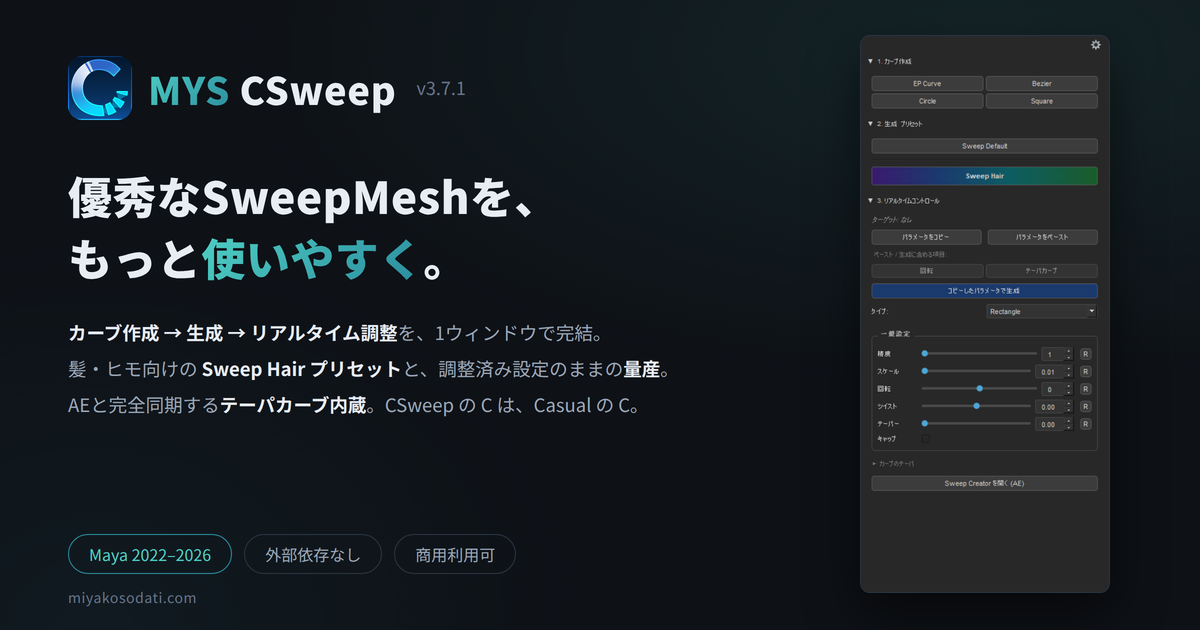
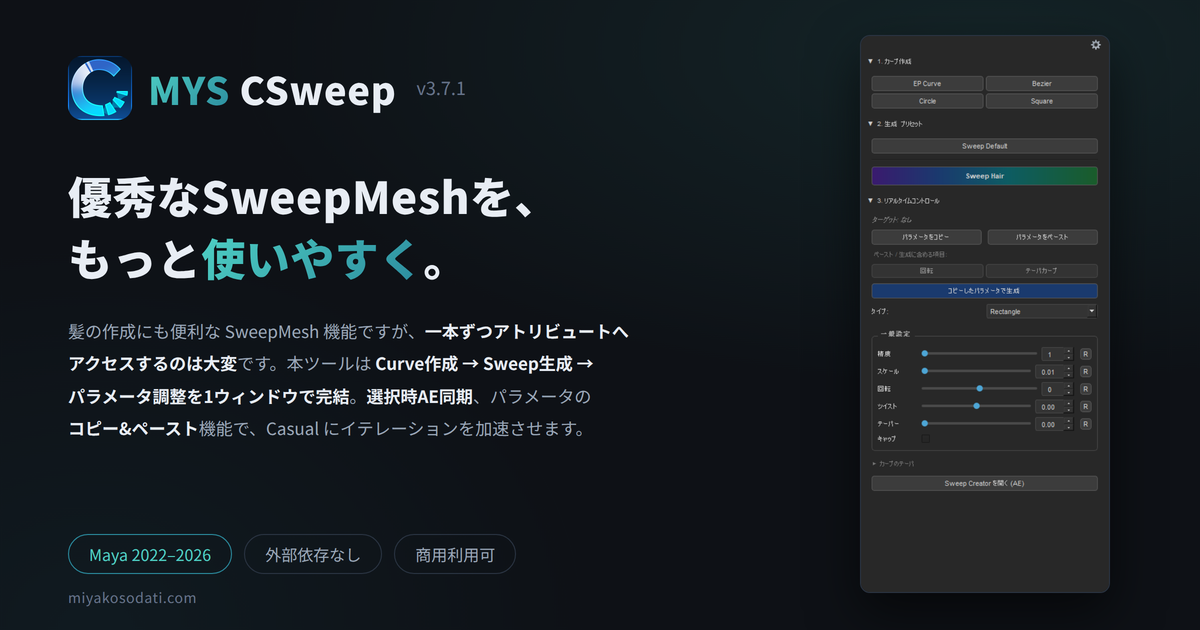
CSweep: summary画像とできることの文言調整

Changed region(s): [[0.0617, 0.5127, 0.555, 0.6937]]

diff --git a/tools/csweep/index.html b/tools/csweep/index.html
@@ -6,7 +6,7 @@
 <title>MYS CSweep — Sweep Meshをリアルタイム操作 | MYS Tools</title>
 <meta name="description" content="Maya標準のSweep Mesh(sweepMeshCreator)を1ウィンドウでリアルタイム操作する無償ツール。カーブ作成・プリセット生成・スライダー調整・テーパカーブ・量産まで。Maya 2022–2026対応、商用利用可。">
 <meta property="og:title" content="MYS CSweep — 優秀なSweepMeshを、もっと使いやすく。">
-<meta property="og:description" content="カーブ作成 → 生成 → リアルタイム調整を1ウィンドウで完結。髪・ヒモ向けのSweep Hairプリセットと量産機能、AEと完全同期するテーパカーブ内蔵。Maya 2022–2026対応の無償ツール。">
+<meta property="og:description" content="Curve作成 → Sweep生成 → パラメータ調整を1ウィンドウで完結。選択時AE同期、パラメータのコピー&ペースト機能でCasualにイテレーションを加速。Maya 2022–2026対応の無償ツール。">
 <meta property="og:url" content="https://miyakosodati.com/tools/csweep/">
 <meta property="og:image" content="https://miyakosodati.com/assets/img/csweep/summary.png">
 <meta name="twitter:card" content="summary_large_image">
@@ -45,11 +45,11 @@
 
   <h2 class="sec">できること</h2>
   <ul>
-    <li>Maya 標準の Sweep Mesh（sweepMeshCreator ノード）を、<strong>カーブ作成 → 生成 → 調整まで1ウィンドウ</strong>で操作できます。アトリビュートエディタを行き来する必要はありません。</li>
-    <li>ワンクリック生成プリセットを搭載。<strong>Sweep Default</strong> で標準生成、<strong>Sweep Hair</strong> なら髪の毛・ヒモ向けの<strong>テーパ付きプリセット</strong>で一発生成できます（既定値は設定ウィンドウで変更可能）。</li>
-    <li>生成後は<strong>スライダーでリアルタイム調整</strong>。ドラッグ中もビューポートに即反映され、1ドラッグ = 1アンドゥで Ctrl+Z も安心。タイプ切替（Rectangle / Line / Arc）で固有パラメータも自動で入れ替わります。</li>
-    <li>AE と同じ<strong>「カーブのテーパ」カーブをツール内に埋め込み</strong>。アトリビュートエディタと完全同期します。</li>
-    <li>パラメータの<strong>コピー / ペースト</strong>に加え、<strong>「コピーしたパラメータで生成」</strong>でカーブを選ぶだけの<strong>量産</strong>に対応。回転・テーパカーブを含めるかもトグルで選べます。</li>
+    <li>Maya 標準の Sweep Mesh 機能を、<strong>Curve作成 → Sweep生成 → パラメータ調整までツール上で完結</strong>できます。<strong>Curve / Mesh を選択するだけでアトリビュートをツール上に反映</strong>するため、パラメータへのアクセス速度が跳ね上がります。</li>
+    <li>生成プリセットを搭載。<strong>Sweep Default</strong> で標準生成、<strong>Sweep Hair</strong> なら髪の毛向けの<strong>テーパ付きプリセット</strong>で一発生成できます（既定値は設定ウィンドウで変更可能）。</li>
+    <li>生成後は<strong>スライダーでリアルタイム調整</strong>。1ドラッグ = 1アンドゥで Ctrl+Z も安心。タイプ切替（Rectangle / Line / Arc）で固有パラメータも自動で入れ替わります。</li>
+    <li>ツール上で調整したパラメータも、<strong>アトリビュートエディタと完全同期</strong>します。</li>
+    <li>パラメータの<strong>コピー / ペースト</strong>に加え、<strong>「コピーしたパラメータで生成」</strong>で任意の生成も可能。回転・テーパカーブを含めるかもトグルで選べます。</li>
   </ul>
 
   <img class="figure" src="/assets/img/csweep/uimap.png" alt="MYS CSweep UI機能マップ — 各セクションの役割">
